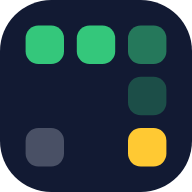
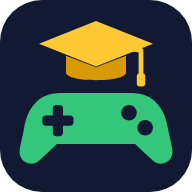
Novo ícone: controle de videogame com chapéu de formatura
Jogar e estudar no mesmo símbolo. Substitui o logo do topo, o ícone da
aba e os ícones do app instalado (inclusive a versão recortável).

Claude-Session: https://claude.ai/code/session_01LNHge7GfKicEDxoXse9o17

diff --git a/apps/plataforma/src/componentes/Marca.tsx b/apps/plataforma/src/componentes/Marca.tsx
@@ -1,14 +1,17 @@
-/** Logo: um tabuleiro 3 × 3 com a cobrinha chegando na peça certa. */
+/** Logo: um controle de videogame com um chapéu de formatura — jogar e estudar. */
 export function Marca({ tamanho = 28 }: { tamanho?: number }) {
   return (
-    <svg className="marca-icone" width={tamanho} height={tamanho} viewBox="0 0 30 30" aria-hidden="true">
-      <rect x="0" y="0" width="30" height="30" rx="8" fill="#121a33" />
-      <rect x="4" y="4" width="6" height="6" rx="2" fill="#34c77b" />
-      <rect x="12" y="4" width="6" height="6" rx="2" fill="#34c77b" />
-      <rect x="20" y="4" width="6" height="6" rx="2" fill="#34c77b" opacity="0.55" />
-      <rect x="20" y="12" width="6" height="6" rx="2" fill="#34c77b" opacity="0.3" />
-      <rect x="20" y="20" width="6" height="6" rx="2" fill="#ffc933" />
-      <rect x="4" y="20" width="6" height="6" rx="2" fill="#eef2fb" opacity="0.25" />
+    <svg className="marca-icone" width={tamanho} height={tamanho} viewBox="0 0 64 64" aria-hidden="true">
+      <rect width="64" height="64" rx="14" fill="#121a33"/>
+      <path d="M20 31h24c7 0 11 5 12 12l1.4 6.6c.8 4-3.4 6.4-6.4 4L45 48H19l-6 5.6c-3 2.4-7.2 0-6.4-4L8 43c1-7 5-12 12-12z" fill="#34c77b"/>
+      <rect x="17.6" y="35" width="3.4" height="10.4" rx="1.2" fill="#121a33"/>
+      <rect x="14.1" y="38.5" width="10.4" height="3.4" rx="1.2" fill="#121a33"/>
+      <circle cx="43" cy="37.6" r="2.6" fill="#121a33"/>
+      <circle cx="48.4" cy="42.6" r="2.6" fill="#121a33"/>
+      <path d="M22 18.6v5.6c0 3.4 20 3.4 20 0v-5.6L32 22.4z" fill="#d99a00"/>
+      <path d="M32 7l19 7.6-19 7.6-19-7.6z" fill="#ffc933"/>
+      <path d="M32 14.6l15 2.2v8" fill="none" stroke="#ffc933" strokeWidth="1.6" strokeLinecap="round" strokeLinejoin="round"/>
+      <rect x="45.6" y="24.4" width="2.8" height="4.4" rx="1" fill="#ffc933"/>
     </svg>
   );
 }
